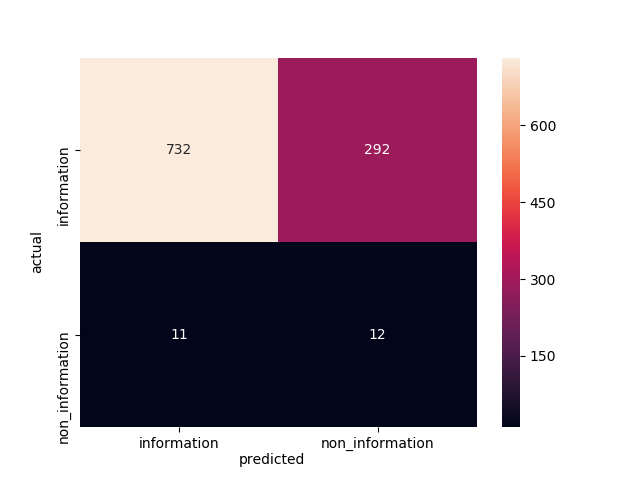
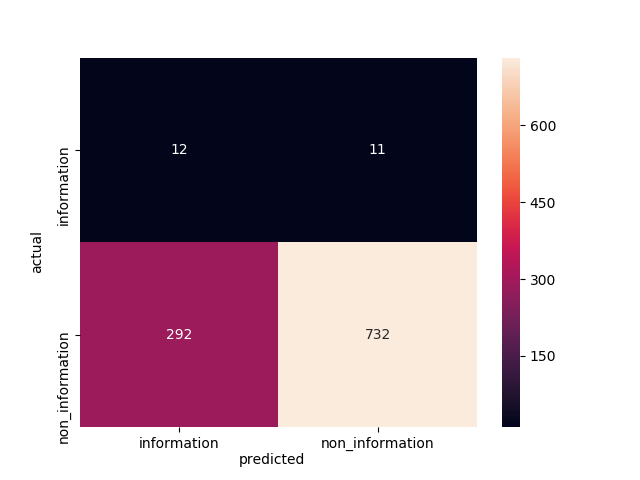
fixed labels

diff --git a/src/csv_utils.py b/src/csv_utils.py
@@ -2,6 +2,7 @@ from pandas import read_csv
 import csv
 from src.keys import key_classifier, key_metric, non_information, information, datapath, csv_outpath
 
+
 def write_counter(counter):
     nameto = 'count.csv'
     with open(csv_outpath + nameto, mode='w', newline='') as file:
@@ -9,7 +10,8 @@ def write_counter(counter):
         writer.writerow(["Type", "Yes", "No", "NI Rate"])
         for key in counter:
             writer.writerow([key, counter[key][non_information], counter[key][information],
-                             round(counter[key][non_information] / (counter[key][information] + counter[key][non_information]), 2)])
+                             round(counter[key][non_information] / (
+                                         counter[key][information] + counter[key][non_information]), 2)])
 
 
 def write_stats(stats):
@@ -51,4 +53,3 @@ if __name__ == "__main__":
     write_counter(csv_counter())
     print(labelparser())
     print(commentparser())
-

diff --git a/src/plot_utils.py b/src/plot_utils.py
@@ -4,7 +4,8 @@ import seaborn as sns
 from src.keys import non_information, img_outpath
 from src.csv_utils import commentparser, labelparser
 
-#takes a confusion matrix and plots it
+
+# takes a confusion matrix and plots it
 def saveHeatmap(cm, name):
     sns.heatmap(cm, square=False, annot=True, cbar=True, fmt="d", xticklabels=["information", "non_information"],
                 yticklabels=["information", "non_information"])
@@ -35,6 +36,7 @@ def plot_length():
     plt.text(1000, 90, 'ni avg length= ' + str(round(sum(sample_ni) / len(sample_ni), 2)))
     plt.text(1000, 80, 'nni avg length=' + str(round(sum(sample_nni) / len(sample_nni), 2)))
     plt.savefig(img_outpath + 'length_distribution.png')
+    plt.clf()
 
 
 if __name__ == "__main__":

diff --git a/src/classifier.py b/src/classifier.py
@@ -11,7 +11,7 @@ from src.plot_utils import saveHeatmap
 
 import time
 
-# TODO : add precision-recall curve FOR FUN
+# TODO : add precision-recall curve and ROC ---> FOR FUN
 metrics = [accuracy_score, average_precision_score, recall_score, precision_score, f1_score]
 metric_names = [x.__name__ for x in metrics]
 
@@ -34,7 +34,7 @@ def classify():
 
         result = cross_val_predict(pipe, comments, labels, cv=KFold(n_splits=10))
 
-        cm = confusion_matrix(result, labels, [information, non_information])
+        cm = confusion_matrix(result, labels, [non_information, information])
         saveHeatmap(cm, i.__name__)
 
         print(i.__name__)

diff --git a/src/main.py b/src/main.py
@@ -1,0 +1,10 @@
+from src.classifier import classify
+from src.csv_utils import write_counter, csv_counter, write_stats
+from src.plot_utils import plot_length
+import time
+
+write_counter(csv_counter())
+plot_length()
+start_time = time.time()
+write_stats(classify())
+print("--- %s seconds ---" % (time.time() - start_time))
